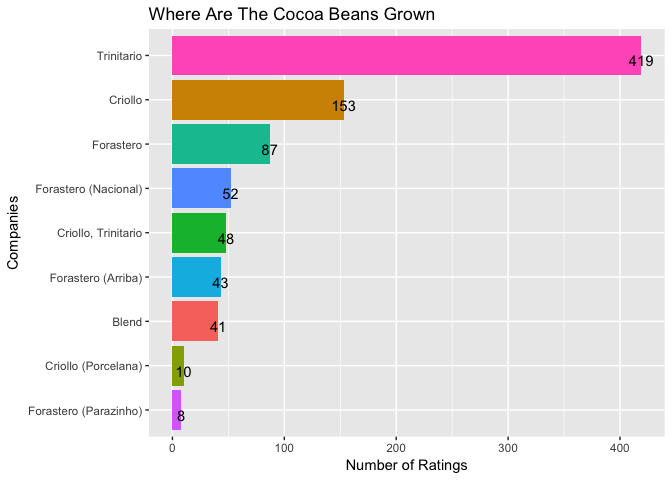
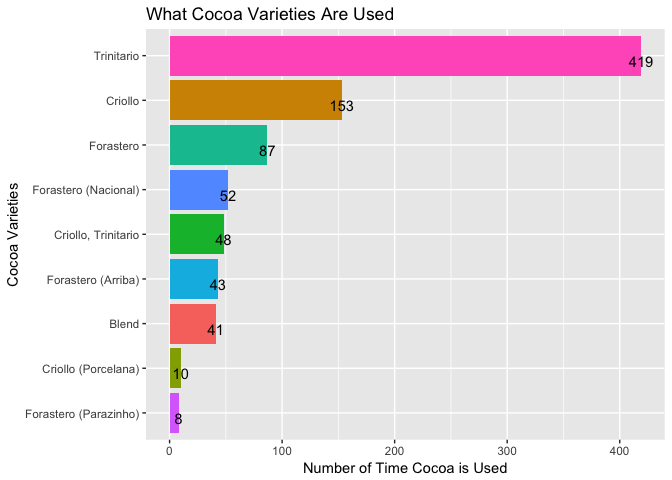
More clean up

diff --git a/Chocolate_Bar_Ratings.md b/Chocolate_Bar_Ratings.md
@@ -417,7 +417,7 @@ ggplot(n7, aes(x = reorder(bean_type, count),
                y = count, fill = bean_type)) + 
                       geom_bar(stat = "identity")  +
                       geom_text(aes(label = count), vjust = 1, hjust = .5) + 
-                      labs(x = "Companies", y = "Number of Ratings", title = "Where Are The Cocoa Beans Grown") +
+                      labs(x = "Cocoa Varieties", y = "Number of Time Cocoa is Used", title = "What Cocoa Varieties Are Used") +
                       theme(legend.position = "none") +
                       coord_flip()
 ```
